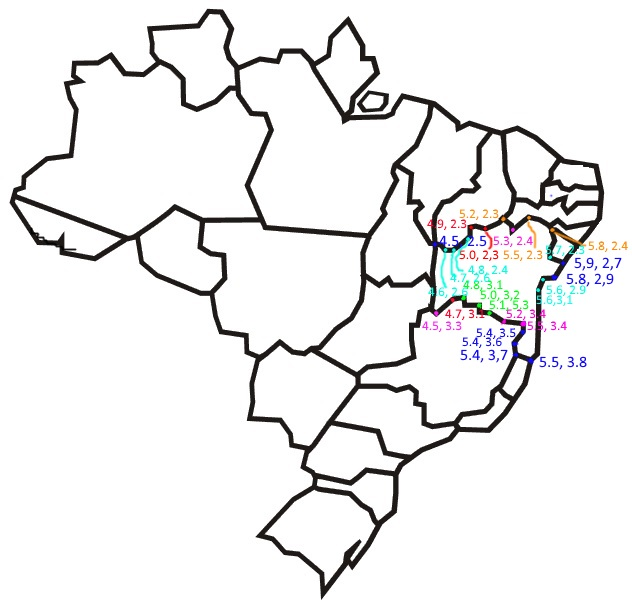
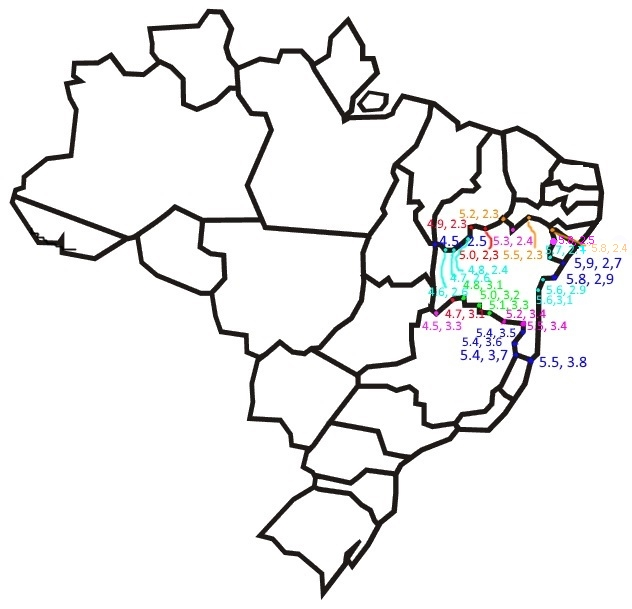
Update game.html
Correção do Amazonas, Bahia, implementação de Sergipe e Alagoas; Identação.

diff --git a/game.html b/game.html
@@ -307,32 +307,34 @@ style="border:1px solid #000000;">
     //BAHIA
     function drawBA() {
         ctx.beginPath();
-        ctx.moveTo(5.9* 100,2.7* 100);
-        ctx.lineTo(5.8* 100,2.9* 100);
-        ctx.lineTo(5.6* 100,2.9* 100);
-        ctx.lineTo(5.6* 100,2.7* 100);
-        ctx.lineTo(5.9* 100,3.1* 100);
-        ctx.lineTo(5.5* 100,3.8* 100);
-        ctx.lineTo(5.4* 100,3.7* 100);
-        ctx.lineTo(5.4* 100,3.6* 100);
-        ctx.lineTo(5.4* 100,3.5* 100);
-        ctx.lineTo(5.5* 100,3.4* 100);
-        ctx.lineTo(5.2* 100,3.4* 100);
-        ctx.lineTo(5.1* 100,5.3* 100);
-        ctx.lineTo(5.0* 100,3.2* 100);
-        ctx.lineTo(4.8* 100,3.1* 100);
-        ctx.lineTo(4.7* 100,3.1* 100);
-        ctx.lineTo(4.5* 100,3.3* 100);
-        ctx.lineTo(4.5* 100,2.5* 100);
-        ctx.lineTo(4.6* 100,2.6* 100);
-        ctx.lineTo(4.7* 100,2.5* 100);
-        ctx.lineTo(4.8* 100,2.4* 100);
-        ctx.lineTo(4.9* 100,2.3* 100);
-        ctx.lineTo(5.0* 100,2.3* 100);
-        ctx.lineTo(5.2* 100,2.3* 100);
-        ctx.lineTo(5.3* 100,2.4* 100);
-        ctx.lineTo(5.5* 100,2.3* 100);
-        ctx.lineTo(5.8* 100,2.4* 100);
+        ctx.moveTo(5.9*100,2.7*100);
+        ctx.lineTo(5.8*100,2.9*100);
+        ctx.lineTo(5.6*100,2.9*100);
+        ctx.lineTo(5.6*100,3.1*100);
+        ctx.lineTo(5.5*100,3.8*100);
+        ctx.lineTo(5.4*100,3.7*100);
+        ctx.lineTo(5.4*100,3.6*100);
+        ctx.lineTo(5.4*100,3.5*100);
+        ctx.lineTo(5.5*100,3.4*100);
+        ctx.lineTo(5.2*100,3.4*100);
+        ctx.lineTo(5.1*100,3.3*100);
+        ctx.lineTo(5.0*100,3.2*100);
+        ctx.lineTo(4.8*100,3.1*100);
+        ctx.lineTo(4.7*100,3.1*100);
+        ctx.lineTo(4.5*100,3.3*100);
+        ctx.lineTo(4.5*100,2.5*100);
+        ctx.lineTo(4.6*100,2.6*100);
+        ctx.lineTo(4.7*100,2.5*100);
+        ctx.lineTo(4.8*100,2.4*100);
+        ctx.lineTo(4.9*100,2.3*100);
+        ctx.lineTo(5.0*100,2.3*100);
+        ctx.lineTo(5.2*100,2.3*100);
+        ctx.lineTo(5.3*100,2.4*100);
+        ctx.lineTo(5.5*100,2.3*100);
+        ctx.lineTo(5.8*100,2.4*100);
+        ctx.lineTo(5.8*100,2.5*100);
+        ctx.lineTo(5.7*100,2.7*100);
+        ctx.lineTo(5.9*100,2.7*100);
         ctx.fillStyle = "#0099FF";
         ctx.fill();
         ctx.strokeStyle = "#003300";
@@ -368,8 +370,8 @@ style="border:1px solid #000000;">
         ctx.lineTo(0.7 * 100, 0.9 * 100);
         ctx.lineTo(0.8 * 100, 0.8 * 100);
         ctx.lineTo(0.8 * 100, 0.7 * 100);
-        ctx.lineTo(1.0 * 100, 1.6 * 100);
-        ctx.lineTo(1.1 * 100, 1.6 * 100);
+        ctx.lineTo(1.0 * 100, 0.6 * 100);
+        ctx.lineTo(1.1 * 100, 0.6 * 100);
         ctx.lineTo(1.3 * 100, 0.7 * 100);
         ctx.lineTo(1.5 * 100, 0.8 * 100);
         ctx.lineTo(1.6 * 100, 0.6 * 100);
@@ -391,8 +393,8 @@ style="border:1px solid #000000;">
     drawGO();
     drawMT();
     drawRO();
-	drawSE();
-	drawAL();
+    drawSE();
+    drawAL();
     drawBA();
     drawAM();
     window.addEventListener('keydown', KeyDown, true);
